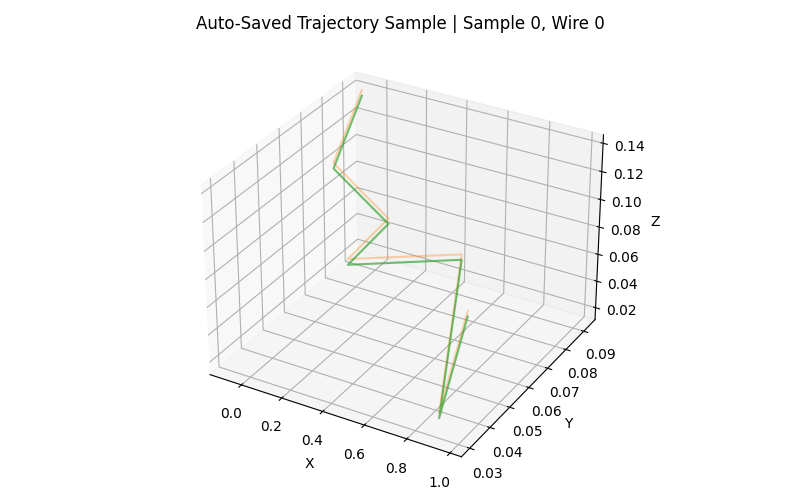
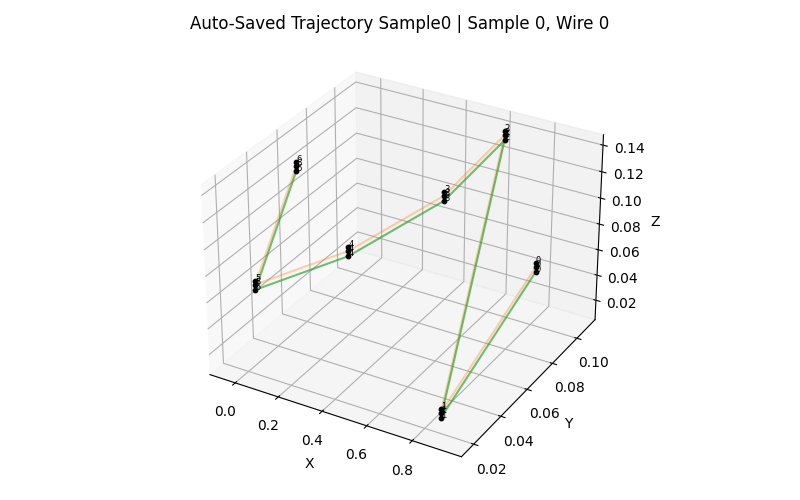
working on visualizing input data

diff --git a/unit_test_util.py b/unit_test_util.py
@@ -21,6 +21,8 @@ class TrainSimpleTrajData(Dataset):
         self.prev_traj = []
         self.curr_traj = []
         self.targ_traj = []
+        self.global_idx = 0
+        self.undeformed_vert = undeformed_vert.detach().clone()
 
         for _ in range(n_samples):
 
@@ -30,11 +32,19 @@ class TrainSimpleTrajData(Dataset):
                 prev = full_traj[i: i + time_horizon]
                 curr = full_traj[i + 1: i + 1 + time_horizon]
                 targ = full_traj[i + 2: i + 2 + time_horizon]
+
                 self.prev_traj.append(prev)
                 self.curr_traj.append(curr)
                 self.targ_traj.append(targ)
-                if len(self.curr_traj) > 0:
-                    self.save_sample_plot(idx=i, traj_type="curr", title="Auto-Saved Trajectory Sample")
+                self.save_trajectory_with_undeformed(
+                        curr.unsqueeze(0),  # shape [T, B=1, V, 3]
+                        self.undeformed_vert,
+                        idx=self.global_idx,
+                        save_dir="trajectory_plots",
+                        title=f"Auto-Saved Trajectory Sample{self.global_idx}"
+                    )
+
+                self.global_idx += 1
 
         self.prev_traj = torch.stack(self.prev_traj)
         self.curr_traj = torch.stack(self.curr_traj)
@@ -50,45 +60,74 @@ class TrainSimpleTrajData(Dataset):
                 self.curr_traj[idx].clone().detach(),
                 self.targ_traj[idx].clone().detach())
 
-    def save_sample_plot(self, idx=0, traj_type="curr", title="Trajectory Sample", save_dir="trajectory_plots"):
+    def save_trajectory_with_undeformed(self,trajectory, undeformed_vert, idx=0, save_dir="trajectory_plots",
+                                        title="Trajectory Sample"):
         """
-        Save a single trajectory sample as a 3D plot image.
+        Save a trajectory sample with undeformed reference overlaid.
 
         Args:
-            idx: sample index
-            traj_type: one of 'prev', 'curr', or 'targ'
-            title: plot title
-            save_dir: directory to save plots
+            trajectory: Tensor of shape [T, B, V, 3] (time_horizon, batch, vertices, 3D)
+            undeformed_vert: Tensor of shape [B, V, 3] or [V, 3]
+            idx: Index of the trajectory sample
+            save_dir: Directory to save the plot
+            title: Title for the figure
         """
+        import matplotlib.pyplot as plt
+        from mpl_toolkits.mplot3d import Axes3D
+        import os
+        import numpy as np
+
         os.makedirs(save_dir, exist_ok=True)
 
-        traj_dict = {
-            "prev": self.prev_traj,
-            "curr": self.curr_traj,
-            "targ": self.targ_traj
-        }
+        T, B, V, _ = trajectory.shape
+        trajectory = trajectory.cpu()
+        undeformed_vert = undeformed_vert.cpu()
+        if undeformed_vert.ndim == 2:  # If shape is [V, 3], expand to [1, V, 3]
+            undeformed_vert = undeformed_vert.unsqueeze(0)
 
-        assert traj_type in traj_dict, f"traj_type must be one of {list(traj_dict.keys())}"
+        for b in range(B):
+            verts = trajectory[:, b]  # shape: [T, V, 3]
+            undeformed = undeformed_vert[b]  # shape: [V, 3]
 
-        trajectory = traj_dict[traj_type][idx]  # shape: [time_horizon, batch * n_branch, n_vert, 3]
-        time_horizon, batch_size, n_vert, _ = trajectory.shape
+            fig = plt.figure(figsize=(16, 8))
+            ax1 = fig.add_subplot(121, projection='3d')
+            ax2 = fig.add_subplot(122, projection='3d')
 
-        for b in range(batch_size):
-            fig = plt.figure(figsize=(8, 5))
-            ax = fig.add_subplot(111, projection='3d')
-            for t in range(time_horizon):
-                verts = trajectory[t, b].cpu().numpy()
-                ax.plot(verts[:, 0], verts[:, 1], verts[:, 2], alpha=t / time_horizon)
-            ax.set_title(f"{title} | Sample {idx}, Wire {b}")
-            ax.set_xlabel("X")
-            ax.set_ylabel("Y")
-            ax.set_zlabel("Z")
+            for ax in [ax1, ax2]:
+                # Plot time-varying trajectory
+                for t in range(T):
+                    color_strength = t / T
+                    points = verts[t].numpy()
+                    ax.plot(points[:, 0], points[:, 1], points[:, 2], alpha=color_strength,
+                            label=f"t={t}" if t == 0 else "")
+                    for v in range(V):
+                        x, y, z = points[v]
+                        ax.scatter(x, y, z, color='black', s=10)
+                        ax.text(x, y, z, f'{v}', fontsize=6)
+
+                # Plot undeformed rest shape in green
+                undeformed_np = undeformed.numpy()
+                ax.plot(undeformed_np[:, 0], undeformed_np[:, 1], undeformed_np[:, 2], c='green', linestyle='--',
+                        label='Undeformed')
+                ax.scatter(undeformed_np[:, 0], undeformed_np[:, 1], undeformed_np[:, 2], c='green', s=20, marker='x')
+
+                ax.set_title(f"{title} | Sample {idx}, Wire {b}")
+                ax.set_xlabel("X")
+                ax.set_ylabel("Y")
+                ax.set_zlabel("Z")
+                ax.set_xlim([-0.5, 1.0])
+                ax.set_ylim([-0.5, 1.0])
+                ax.set_zlim([-0.25, 1.25])
+                ax.legend()
+
+            ax1.view_init(elev=0, azim=90)
+            ax2.view_init(elev=30, azim=-45)
+
+            filename = os.path.join(save_dir, f"traj_sample{idx}_wire{b}.png")
             plt.tight_layout()
-
-            # Save figure
-            filename = f"{traj_type}_sample{idx}_wire{b}.png"
-            plt.savefig(os.path.join(save_dir, filename))
+            plt.savefig(filename)
             plt.close()
+
 
 class EvalSimpleTrajData(Dataset):
     def __init__(self, undeformed_vert, gravity, time_horizon, n_samples, dt, device="cpu"):
